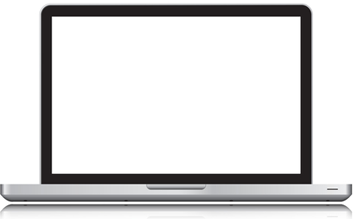
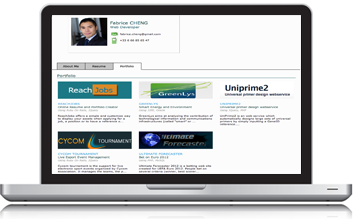
Add shadowbox for images

Changed region(s): [[0.1549, 0.274, 0.8676, 0.7945], [0.1549, 0.0548, 0.8676, 0.2192]]

diff --git a/app/assets/stylesheets/home.css.scss b/app/assets/stylesheets/home.css.scss
@@ -144,3 +144,59 @@ a img {
   margin-bottom: 10px;
 }
 
+.view_example {
+
+  margin-left: 50px;
+
+  a {
+    text-decoration: none;
+    color:#68b4ef;
+    font-size: 12px;
+    font-weight: bold;
+  }
+
+  a:visited {
+    text-decoration: none;
+  }
+
+  a:hover {
+    color: lighten(#68b4ef, 10%);
+  }
+}
+
+.reachjobs_head_title {
+  font-size: 20px;
+  text-align: center;
+  margin-top: 20px;
+  margin-bottom: 20px;
+  color: $my_blue;
+}
+
+.reachjobs_step_title {
+  font-size: 16px;
+  color: $my_orange;
+}
+
+.reachjobs_step {
+  width: 600px;
+  margin-bottom: 20px;
+  margin: auto;
+  clear: both;
+}
+
+.reachjobs_step_left {
+  float: left;
+  width: 230px;
+}
+
+.reachjobs_step_right {
+  float: right;
+  margin-left: 20px;
+  width: 350px;
+
+  img {
+      -moz-box-shadow:0 0 10px #111;
+  -webkit-box-shadow:0 0 10px #111;
+  box-shadow:0 0 10px #111;
+  }
+}

diff --git a/app/assets/stylesheets/profiles.css.scss b/app/assets/stylesheets/profiles.css.scss
@@ -17,7 +17,9 @@
   position: absolute;
   width: 400px;
   background-color: $background;
-  border: 1px outset;
+  -moz-box-shadow:0 0 10px #111;
+  -webkit-box-shadow:0 0 10px #111;
+  box-shadow:0 0 10px #111;
 
   #profile_header_idcard_photo {
     margin-top: 10px;

diff --git a/app/assets/stylesheets/socialnetworks.css.scss b/app/assets/stylesheets/socialnetworks.css.scss
@@ -5,6 +5,9 @@
 
 #profile_aboutme_socialnetwork_photo {
   float: left;
+    -moz-box-shadow:0 0 10px #111;
+  -webkit-box-shadow:0 0 10px #111;
+  box-shadow:0 0 10px #111;
 }
 
 #profile_aboutme_socialnetwork_links {

diff --git a/app/assets/stylesheets/galleries.css.scss b/app/assets/stylesheets/galleries.css.scss
@@ -17,6 +17,9 @@
   float: left;
   display: block;
   overflow: hidden;
+    -moz-box-shadow:0 0 10px #111;
+  -webkit-box-shadow:0 0 10px #111;
+  box-shadow:0 0 10px #111;
 }
 
 .addmargin {
